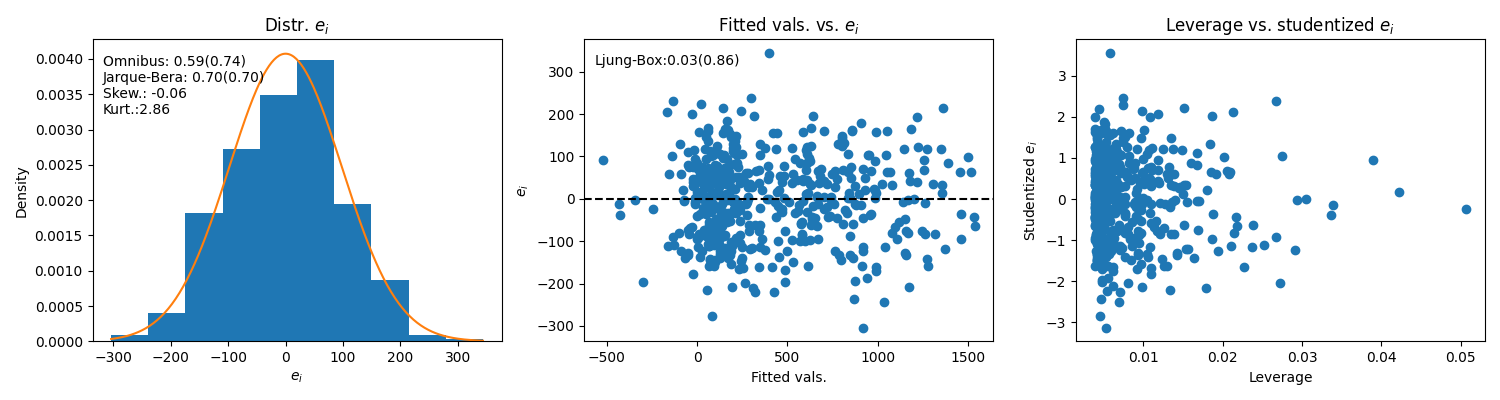
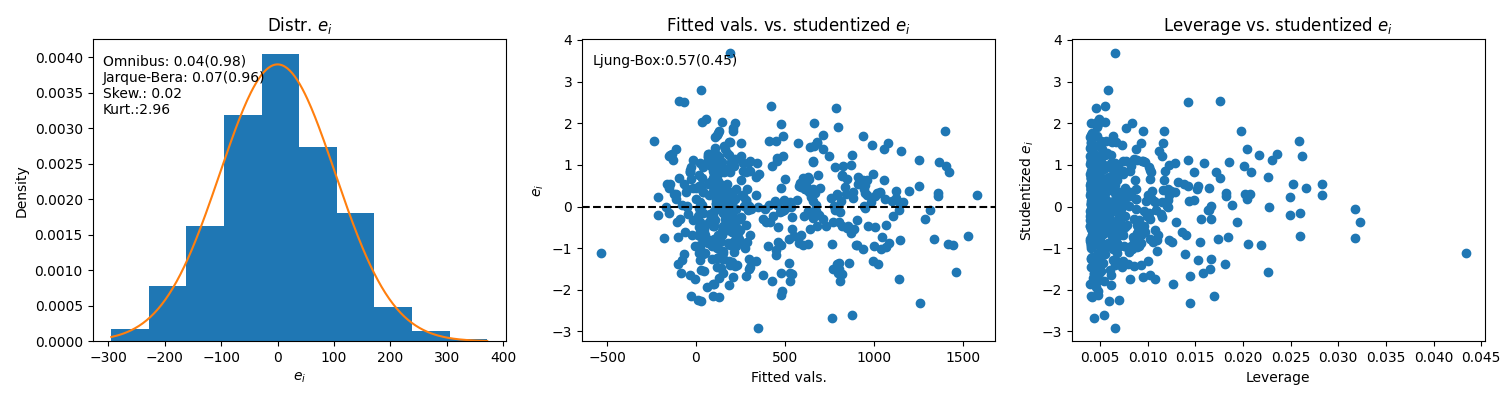
update docu

diff --git a/mlr.py b/mlr.py
@@ -147,7 +147,23 @@ class MLR:
         self.compute_diagnostics()
         self.plot_diagnostics(filename_diagnostics_ok)
 
+    def model_heteroscedastic(self, filename_diagnostics_heteroscedastic):       
+        n = 500
+        sigma_epsilon = 3
+        X = np.random.uniform(10, 100, n)
+        epsilon_heteroscedastic = np.random.normal(0, sigma_epsilon*X**(0.66))
+        beta = [1.3, 2.4]
+        X = sm.add_constant(X)
+        y = X@beta + epsilon_heteroscedastic
 
+        self.model_sample = sm.OLS(y, X)
+        self.model_sample = self.model_sample.fit()
+        self.y_hat = self.model_sample.predict(X)
+        print(self.model_sample.summary())
+
+        self.compute_residuals_stats()
+        self.compute_diagnostics()
+        self.plot_diagnostics(filename_diagnostics_heteroscedastic)
 
     def plot_population_vs_sample(self):
         fig, ax = plt.subplots()
@@ -164,7 +180,7 @@ class MLR:
     def compute_residuals_stats(self):
         self.e_i = self.model_sample.resid
         self.e_i_mean = np.mean(self.e_i)
-        self.e_i_sd = np.sqrt(np.var(self.e_i, ddof=2)) # this is rse (the residuals' standart error)
+        self.e_i_sd = np.sqrt(np.var(self.e_i, ddof=2)) # this is rse (the residuals' standard error)
         self.e_i_x = np.linspace(self.e_i.min(), self.e_i.max(), 300)
         self.e_i_pdf = scipy.stats.norm.pdf(self.e_i_x, loc=self.e_i_mean, scale=self.e_i_sd)
         self.y_hat_i = self.model_sample.fittedvalues
@@ -194,8 +210,8 @@ class MLR:
         )
         ax[0].set_xlabel(r'$e_i$')
         ax[0].set_ylabel('Density')
-        ax[1].set_title(r'Fitted vals. vs. $e_i$')
-        ax[1].scatter(self.y_hat_i, self.e_i)
+        ax[1].set_title(r'Fitted vals. vs. studentized $e_i$')
+        ax[1].scatter(self.y_hat_i, self.studentized_resid)
         ax[1].axhline(y=0, color='black', linestyle='--')
         ax[1].set_xlabel('Fitted vals.')
         ax[1].set_ylabel(r'$e_i$')
@@ -209,10 +225,10 @@ class MLR:
 
 if __name__ == '__main__':
     mlr = MLR()
-    #mlr.model_basic(1000, 300, 10, [10.3, 5.4, -6.78])
-    #mlr.model_interaction('mlr_distr_ei_missing_interaction.png')
-    #mlr.model_categorical_predictors('mlr_scatterplot_with_categorical.png', 'mlr_diagnostics_with_categorical.png')
-    #mlr.model_interaction_categorical_predictors('mlr_scatterplot_categorical_interaction.png', 'mlr.diagnostics_categorical_interaction.png')
+    mlr.model_basic(1000, 300, 10, [10.3, 5.4, -6.78])
+    mlr.model_interaction('mlr_distr_ei_missing_interaction.png')
+    mlr.model_categorical_predictors('mlr_scatterplot_with_categorical.png', 'mlr_diagnostics_with_categorical.png')
+    mlr.model_interaction_categorical_predictors('mlr_scatterplot_categorical_interaction.png', 'mlr.diagnostics_categorical_interaction.png')
     mlr.model_missing_nonlinear_term('mlr_diagnostics_missing_nonlinear_ok.png', 'mlr_diagnostics_missing_nonlinear_missing.png')
-
+    mlr.model_heteroscedastic('mlr_diagnostics_heteroscedastic.png')
 

diff --git a/README.md b/README.md
@@ -6,7 +6,7 @@
 
 Model: $y = X\beta + \epsilon$, with $\epsilon \sim N(0, \sigma)$, $\beta= \langle\beta_0, \beta_1\rangle$ and $X$ a column vector (we prepend a column of ones on the left for the intercept). The deterministic part is $X\beta$, which is a model for $E(Y|X)$. $\epsilon$ is the random deviation of each $y_i$ from $E(Y|X)$, and is what makes $y$ a random variable.`
 
-The modelling task in OLS is to estimate $\hat{\beta}$ and its variability. That gives us a function to estimate of $E(Y|X)$ and a way to compute confidence intervals. $\hat{\beta}$ is computed as (expected value):
+The modelling task in OLS is to estimate $\hat{\beta}$ and its variability. That gives us a function to estimate of $E(Y|X)$ and a way to compute confidence intervals. $\hat{\beta}$ is computed as (more precisely, its expected value):
 
 $\hat{\beta} = (X^TX)^{-1}X^Ty$
 
@@ -23,6 +23,13 @@ In general, larger samples with more spread $X$ have smaller variability; the me
 Note: these formulas are only valid if $Cov(X, \epsilon) = 0$. The intuition here is that if $\epsilon$ is related to the regressors $X$, these contain information about the part of $y$ that is supposed to be only noise, i.e., there's still variance in $\epsilon$ that is linked to $X$. It's also possible that an omitted variable is moving with $X$ and thus affecting $y$ indirectly. This then causes $X$ and $\epsilon$ to be related. 
 
 Since $Cov(X, \epsilon) = E(X\epsilon | X) - E(X)E(\epsilon | X) = XE(\epsilon) - E(X)E(\epsilon)$, the only way for $X$ and $\epsilon$ have zero covariance is if $E(\epsilon)=0$, which we achieve by correctly specifying the model (accounting for non-linearities and avoiding omitted variable bias). It's also worth noting that, with multiple regressors, checking which $X$ is responsible for $Cov(X, \epsilon) \neq 0$ helps determining which regressor drives the residuals.
+
+### A final note on predicted values
+
+Since $\hat{\beta} = (X^TX)^{-1}X^Ty$, the estimated values $\hat{y}$ are $\hat{y} = X\hat{\beta} = X(X^TX)^{-1}X^Ty$. The product $X(X^TX)^{-1}X^T$ is known as the 'hat' matrix $H$, since multiplying it with $y$ generates $\hat{y}$. Further, the matrix-vector product $Hy$ (which is computed as $\hat{y}_i = \sum_{i=1}^n h_{ij}y_j$) indicates that each $\hat{y}_i$ is a linear combination of all observed $y_i$
+
+
+diaonal elements of hat matrix are leverage of each observation
 
 ### Sums of squares and $R^2$
 
@@ -183,11 +190,16 @@ That way, the regression equation for $x_2 = 1$ has intercept $\beta_0 + \beta_2
 
 Any non-linear pattern in the residuals plot (fitted values vs. residuals) suggests the model is missspecified. This can mean a missing non-linear or interaction term, and manifests as autocorrelated residuals. This can be addressed by including a non-linear function of the existing regressor(s) and/or interaction terms. Non-linear terms can be, for instance, $X_j^c$, with $c$ = some power ('polynomial regression') or something like $log(X_j)$.
 
-For example, if our data-generating process is $y = \beta_0 + \beta_1X_1 + \beta_2X_1^2 + \epsilon$ but we fit $y = \beta_0 + \beta_1X_1 + \epsilon$, the residuals plot clearly shows a parabolic trend, suggestive of a missing quadratic term in the model. Note also the right-biased residuals distribution and the obvious pattern in the leverage vs. studentized residuals plot, showing that points with stronger leverage have larger residuals (which is very problematic). ![](mlr_diagnostics_missing_nonlinear_missing.png)
+For example, if our data-generating process is $y = \beta_0 + \beta_1X_1 + \beta_2X_1^2 + \epsilon$ but we fit $y = \beta_0 + \beta_1X_1 + \epsilon$, the residuals plot (in the middle) clearly shows a parabolic trend, suggestive of a missing quadratic term in the model. Note also the right-biased residuals distribution and the obvious pattern in the leverage vs. studentized residuals plot, showing that points with stronger leverage have larger residuals (which is very problematic). ![](mlr_diagnostics_missing_nonlinear_missing.png)
 
 In contrast, if we include the quadratic term, $y = \beta_0 + \beta_1X_1 + \beta_2X_1^2 + \epsilon$, and that removes the parabolic trend in the residuals plot, the bias in the distribution of $e_i$, and the trend in the leverage vs. studentized residuals plot: ![](mlr_diagnostics_missing_nonlinear_ok.png)
 
-### Heterosckedasticity
+### Heteroscedasticity
+
+
+
+![](mlr_diagnostics_heteroscedastic.png)
+
 
 ### Outliers
 
